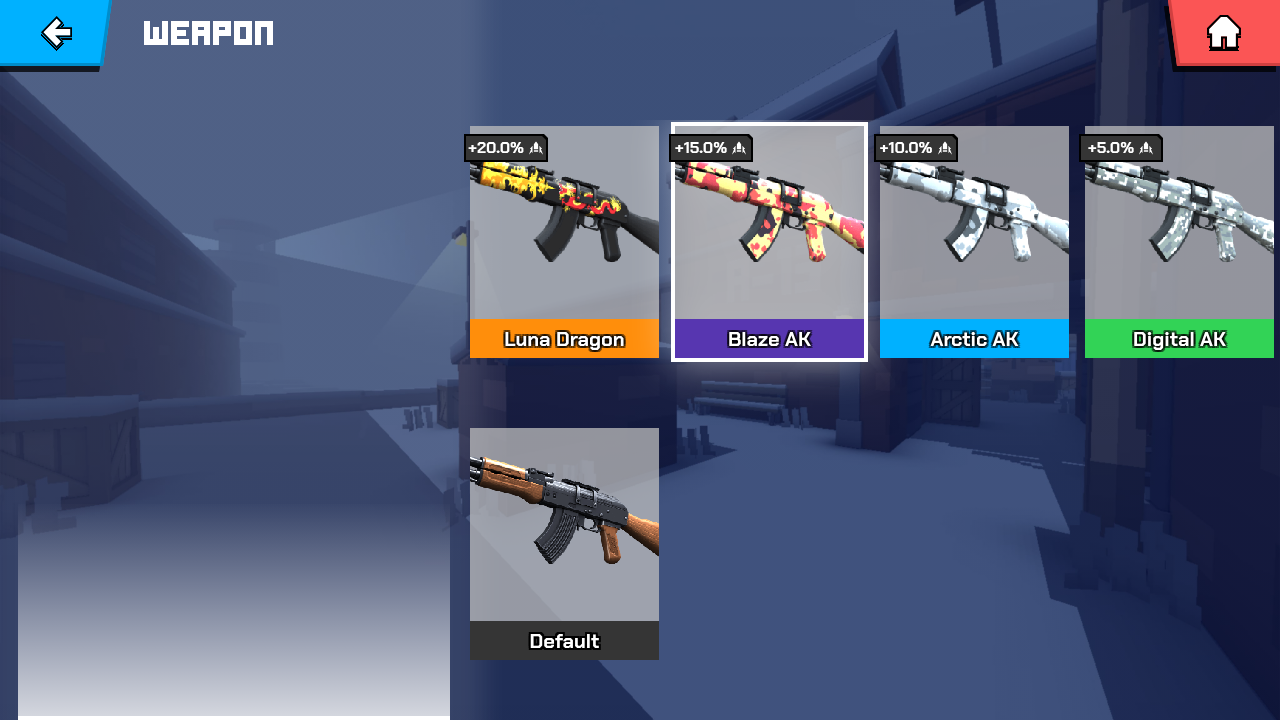
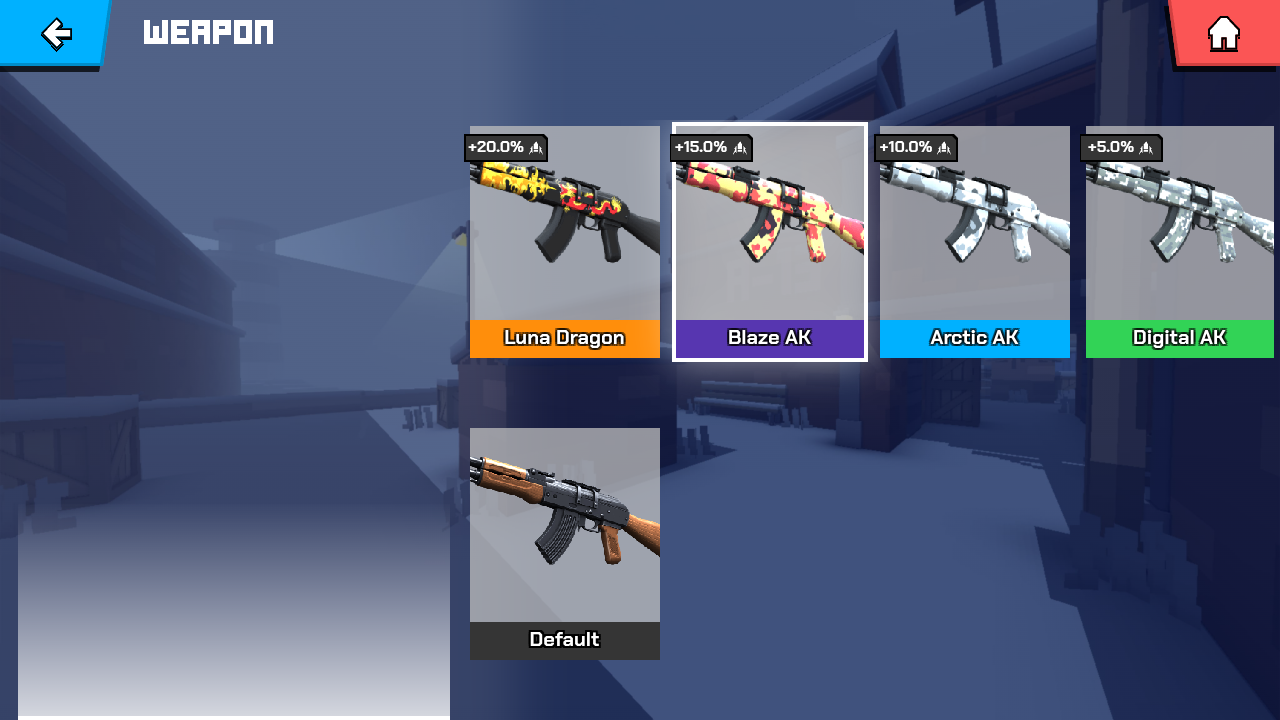
static_ref: Chrome under FRVR's device emulation; item-selection reference regenerated
FRVR's Strike captures are Chrome under DevTools emulation: 640 x 360 CSS
px at deviceScaleFactor 2, mobile, --font-render-hinting=none
(capture-strike.js:20,67,339). KN lays the Strike page out the same way
(strike_ui.c apply_viewport) and rounds text baselines in CSS px (paint.c
glyph_to_quad).

static_ref.py shot a 1280 x 720 window at --force-device-scale-factor=1.
That rounds in device px, so item-selection's title sat 1 device px lower
than in KN (2.56 %). A plain scale-2 window gives the same pixels; only
Emulation.setDeviceMetricsOverride changes them. static_ref.py now starts
Chrome with a DevTools port, and tools/strike/static_ref_shot.js sets
FRVR's emulation and takes the shot. Chrome's leftover processes are
ended by their --user-data-dir.

doc/ref/krunker-strike-1.37.2/strike-item-selection.png and its kept page
are regenerated this way. With the flex fix every region passes: title
0.00 %, items-row 0.58 %, default-square 0.20 %.

diff --git a/tools/strike/static_ref_shot.js b/tools/strike/static_ref_shot.js
@@ -1,0 +1,23 @@
+// static_ref.py's browser half: the transcribed page drawn under the same device emulation as FRVR's own captures
+// (tools/uidiff/capture-strike.js: 640 x 360 CSS px landscape at deviceScaleFactor 2, mobile), then screenshotted.
+//
+//   node tools/strike/static_ref_shot.js <cdp port> <page url> <css width> <css height> <dpr> <out.png>
+'use strict';
+const path = require('path');
+const { CDP, sleep } = require(path.join(__dirname, '..', 'kref', 'cdp.js'));
+
+(async () => {
+  const [port, url, w, h, dpr, out] = process.argv.slice(2);
+  const c = await CDP.connect(+port);
+  await c.send('Page.enable');
+  await c.send('Runtime.enable');
+  await c.send('Emulation.setDeviceMetricsOverride', { width: +w, height: +h, deviceScaleFactor: +dpr, mobile: true,
+    screenOrientation: { type: 'landscapePrimary', angle: 90 } });
+  await c.send('Page.navigate', { url });
+  await c.waitFor('document.readyState === "complete"', 30000);
+  await c.eval('document.fonts.ready.then(() => true)');
+  await sleep(1500); // the images' decode and a few frames
+  await c.shot(out);
+  c.close();
+  process.exit(0);
+})().catch((e) => { console.error('static_ref_shot: ' + e.message); process.exit(1); });

diff --git a/tools/strike/static_ref.py b/tools/strike/static_ref.py
@@ -9,8 +9,9 @@ the DOM KrunkNative renders for a scenario, drawn by Chrome with FRVR 1.37.2's o
 2. that document without KrunkNative's own parts: no <script> (FRVR's bundle never runs, nor does
    KrunkNative's shim), no css/kn-strike-overrides.css (the native engine's gap fixes), <base> at ui/strike/
    so FRVR's index-CJ_IUjn5.css, icons.css, fonts and images load from the tree
-3. Chrome headless screenshots it at the scenario's size; the page carries a Content-Security-Policy of
-   script-src 'none' (on top of having no <script> left), so nothing in it can run
+3. Chrome headless screenshots it at the scenario's size, under capture-strike.js's device emulation (the
+   scenario's size / 2 CSS px at deviceScaleFactor 2, tools/strike/static_ref_shot.js); the page carries a
+   Content-Security-Policy of script-src 'none' (on top of having no <script> left), so nothing in it can run
 
 So the reference checks the native engine's rendering of FRVR's markup against a browser's rendering of
 the same markup with FRVR's CSS; it says nothing about whether the transcription matches FRVR's own
@@ -21,12 +22,14 @@ import json
 import os
 import re
 import shutil
+import socket
 import subprocess
 import sys
 import tempfile
 
 ROOT = os.path.dirname(os.path.dirname(os.path.dirname(os.path.abspath(__file__))))
 CHROMES = ("google-chrome", "chromium-browser", "chromium")
+DPR = 2  # capture-strike.js's deviceScaleFactor: the scenario's size is the device size, 2x the CSS viewport
 
 
 def chrome():
@@ -83,11 +86,31 @@ def main():
             with gzip.open(keep, "wt", encoding="utf-8") as f:
                 f.write(doc)
         shot = os.path.join(work, "ref.png")
-        cmd = [browser, "--headless=new", "--mute-audio", "--disable-gpu", "--hide-scrollbars", "--no-first-run", "--no-default-browser-check",
-               "--user-data-dir=" + os.path.join(work, "chrome"),
-               "--allow-file-access-from-files", "--force-device-scale-factor=1", "--window-size=%d,%d" % (w, h),
-               "--virtual-time-budget=3000", "--screenshot=" + shot, "file://" + page]
-        r = subprocess.run(cmd, stdin=subprocess.DEVNULL, capture_output=True, timeout=120)
+        # FRVR's captures (tools/uidiff/capture-strike.js) are Chrome under DevTools device emulation: 640 x 360 CSS px
+        # at deviceScaleFactor 2, mobile, --font-render-hinting=none. That lays the page out and rounds its text in CSS px,
+        # as the native client does for the Strike page (client/src/html/engine/paint.c glyph_to_quad); a plain
+        # 1280 x 720 window at scale 1 rounds in device px and drew item-selection's title 1 device px lower (2.56 %)
+        sock = socket.socket()
+        sock.bind(("127.0.0.1", 0))
+        port = sock.getsockname()[1]
+        sock.close()
+        profile = os.path.join(work, "chrome")
+        cmd = [browser, "--headless=new", "--no-sandbox", "--use-gl=angle", "--use-angle=swiftshader", "--enable-unsafe-swiftshader",
+               "--mute-audio", "--hide-scrollbars", "--no-first-run", "--no-default-browser-check", "--font-render-hinting=none",
+               "--user-data-dir=" + profile, "--allow-file-access-from-files", "--window-size=%d,%d" % (w, h),
+               "--remote-debugging-port=%d" % port, "--remote-debugging-address=127.0.0.1", "about:blank"]
+        proc = subprocess.Popen(cmd, stdin=subprocess.DEVNULL, stdout=subprocess.DEVNULL, stderr=subprocess.DEVNULL, start_new_session=True)
+        try:
+            r = subprocess.run(["node", os.path.join(ROOT, "tools", "strike", "static_ref_shot.js"), str(port), "file://" + page,
+                                str(w // DPR), str(h // DPR), str(DPR), shot], stdin=subprocess.DEVNULL, capture_output=True, timeout=120)
+        finally:
+            proc.terminate()
+            try:
+                proc.wait(10)
+            except subprocess.TimeoutExpired:
+                proc.kill()
+            # Chrome's GPU / zygote children leave its process group: end whatever still runs on this profile
+            subprocess.run(["pkill", "-f", "--", "--user-data-dir=" + profile], check=False)
         if not os.path.exists(shot):
             sys.stderr.write(r.stderr.decode(errors="replace")[-2000:])
             print("static_ref: Chrome wrote no screenshot")
